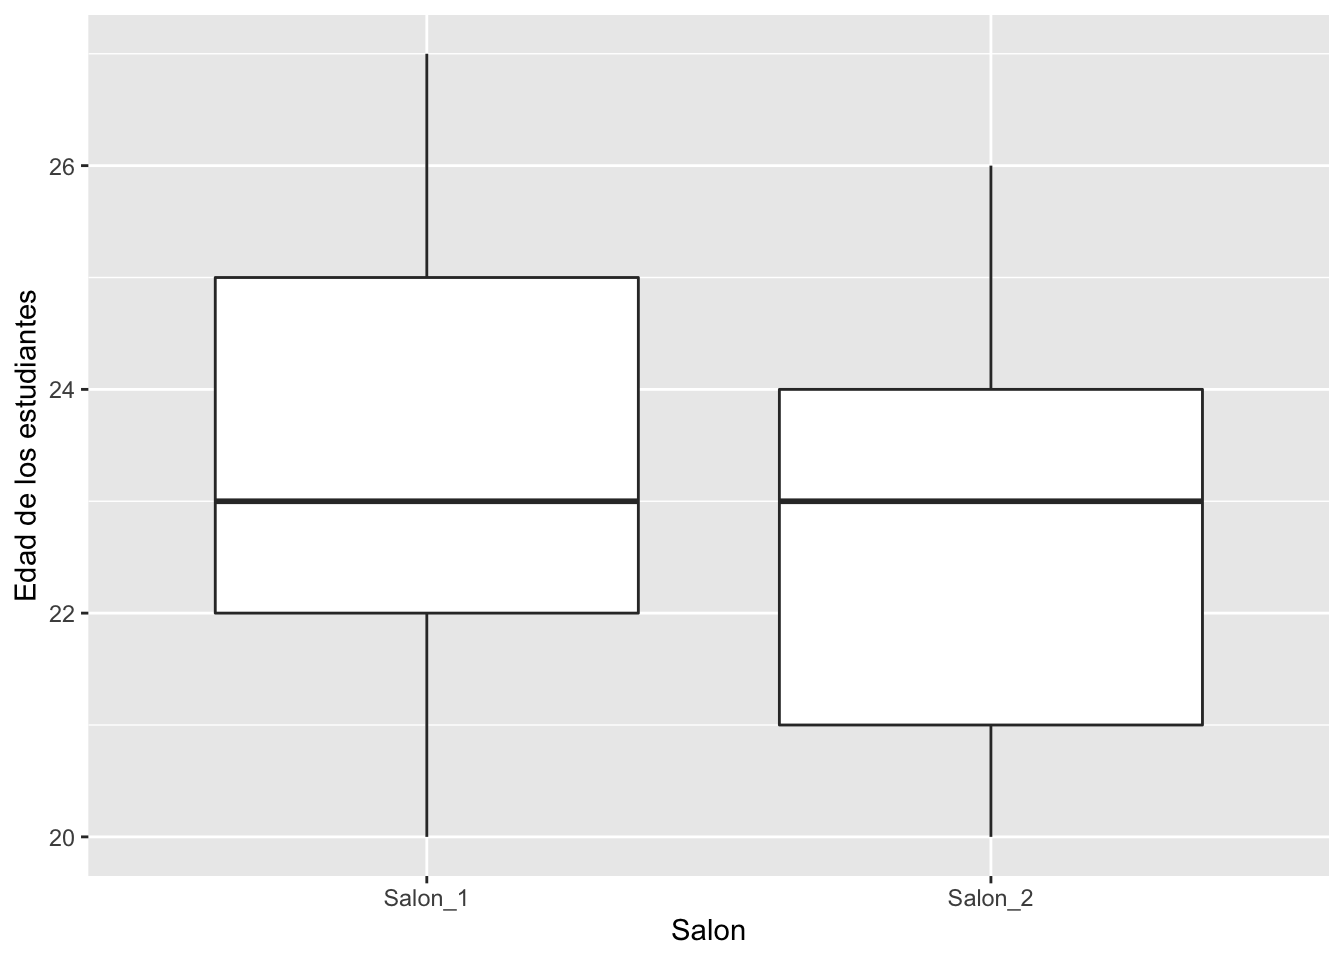
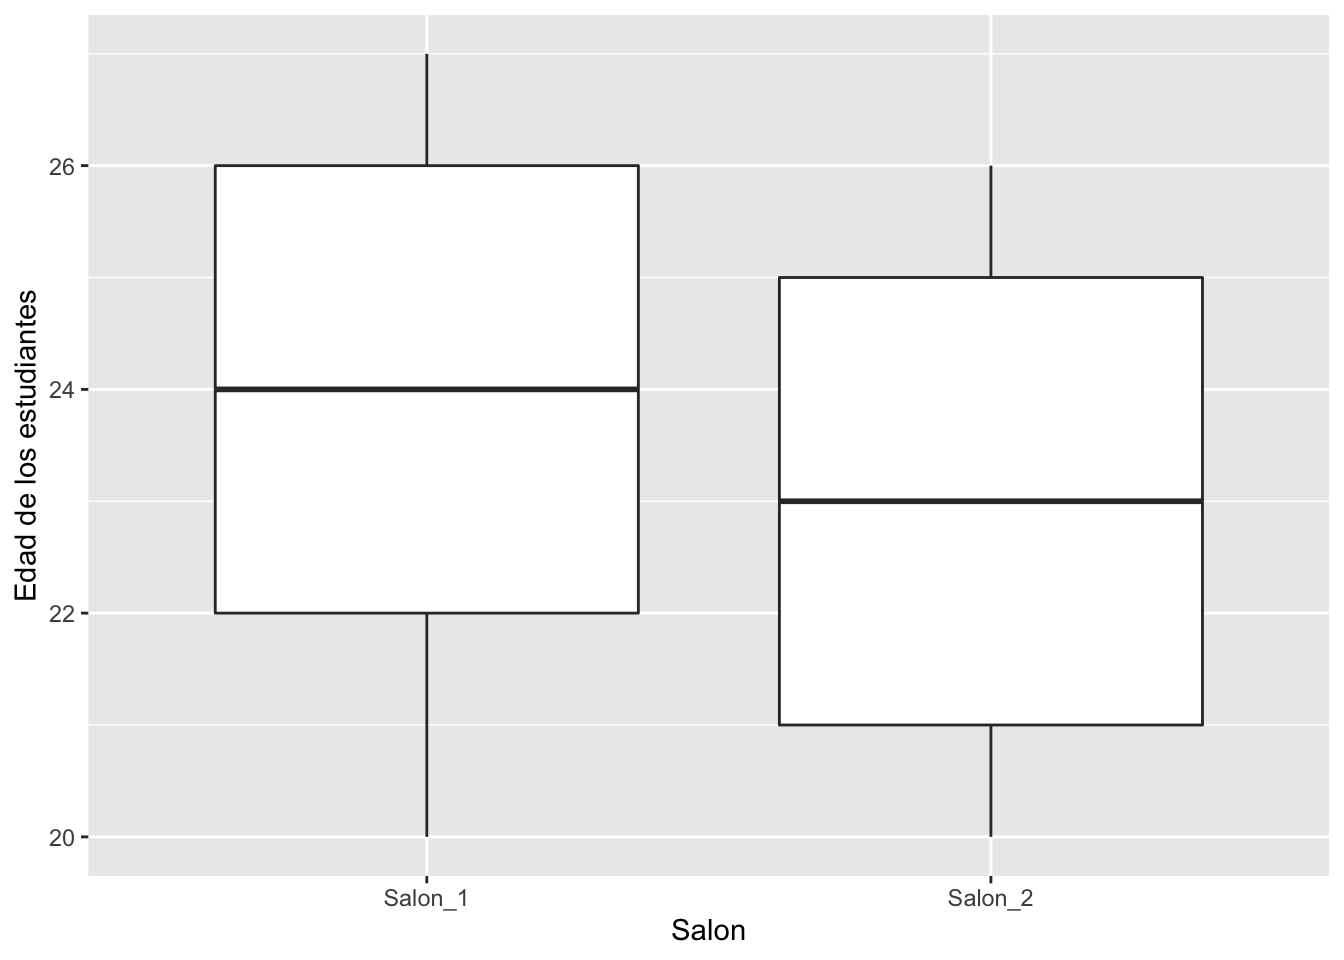
Table errors

diff --git a/ggplot2.html b/ggplot2.html
@@ -475,21 +475,21 @@ div.tocify {
 ##   Referenced from: /Library/Frameworks/R.framework/Versions/4.0/Resources/modules/R_X11.so
 ##   Reason: image not found</code></pre>
 <pre><code>## $V1
-##   [1] 22 21 25 24 22 23 24 27 22 21 22 20 24 24 20 25 23 21 26 25 26 20 23 27 22
-##  [26] 21 20 25 25 22 25 26 21 25 25 27 25 23 22 27 27 24 20 22 24 26 21 26 21 20
-##  [51] 24 26 25 25 21 21 27 21 27 22 22 26 22 20 23 27 23 26 20 24 27 23 22 24 23
-##  [76] 20 22 27 26 23 27 23 22 26 25 27 25 21 24 22 24 26 24 23 23 21 20 23 26 23</code></pre>
+##   [1] 25 24 23 22 26 25 22 27 25 24 24 22 27 25 20 27 20 22 27 23 26 22 20 27 25
+##  [26] 26 24 23 23 20 23 22 24 20 24 22 25 23 22 27 24 24 26 21 22 20 23 24 26 22
+##  [51] 27 27 27 21 20 21 20 22 21 24 24 27 25 22 26 21 27 26 27 22 26 24 23 23 24
+##  [76] 23 23 20 26 21 24 20 20 26 24 23 25 24 24 24 26 27 25 26 23 26 26 23 22 27</code></pre>
 <hr />
 <pre><code>## $V1
-##   [1] 25 20 26 24 26 22 23 20 23 23 20 20 21 24 24 25 21 24 20 24 23 23 21 24 24
-##  [26] 21 22 20 21 25 26 25 23 25 26 25 20 25 20 25 24 24 23 22 23 20 23 24 20 20
-##  [51] 24 25 21 24 25 26 20 23 22 20 26 20 20 22 23 25 24 21 20 24 22 22 21 25 22
-##  [76] 25 22 21 26 20 24 21 25 20 21 22 20 20 21 24 23 24 26 26 22 20 26 21 23 20</code></pre>
+##   [1] 26 25 23 23 23 22 21 20 23 26 20 24 24 26 24 26 26 24 23 20 22 23 25 21 24
+##  [26] 22 22 21 22 21 24 23 24 25 24 26 24 24 20 26 21 23 23 22 24 22 22 24 20 24
+##  [51] 22 22 26 20 21 22 20 26 25 21 22 21 26 20 25 21 25 21 26 26 23 21 24 21 25
+##  [76] 25 21 24 26 20 26 24 21 22 26 21 25 20 23 23 20 20 24 20 24 23 25 23 26 23</code></pre>
 <p>Probablemente no es evidente a primera vista cual es la diferencia.</p>
 <hr />
 <div id="resumir-la-información-en-tablas" class="section level2">
 <h2>Resumir la información en tablas</h2>
-<p>Una de las alternativas es resumir los datos en una tablas</p>
+<p>Una de las alternativas es resumir los datos en una tablas, por ejemplo por grupos</p>
 <pre class="r"><code>df%&gt;%
   select(V1, Salon)%&gt;%
   group_by(Salon)%&gt;%
@@ -854,13 +854,13 @@ div.tocify {
   <tbody class="gt_table_body">
     <tr>
       <td class="gt_row gt_left">Salon_1</td>
-      <td class="gt_row gt_right">23.53</td>
+      <td class="gt_row gt_right">23.75</td>
       <td class="gt_row gt_center">20</td>
       <td class="gt_row gt_center">27</td>
     </tr>
     <tr>
       <td class="gt_row gt_left">Salon_2</td>
-      <td class="gt_row gt_right">22.72</td>
+      <td class="gt_row gt_right">23.04</td>
       <td class="gt_row gt_center">20</td>
       <td class="gt_row gt_center">26</td>
     </tr>

diff --git a/Grafico-de-puntos-de-Wilkinson.html b/Grafico-de-puntos-de-Wilkinson.html
@@ -1028,7 +1028,7 @@ a+geom_dotplot(fill=&quot;red&quot;, colour=&quot;black&quot;,
 <pre class="r"><code>drop</code></pre>
 <pre><code>## function (x) 
 ## .Internal(drop(x))
-## &lt;bytecode: 0x7fc4f9520208&gt;
+## &lt;bytecode: 0x7fb11ead6000&gt;
 ## &lt;environment: namespace:base&gt;</code></pre>
 <pre class="r"><code>dipodium%&gt;%
   select(Species_Name, Number_of_fruits)%&gt;%
